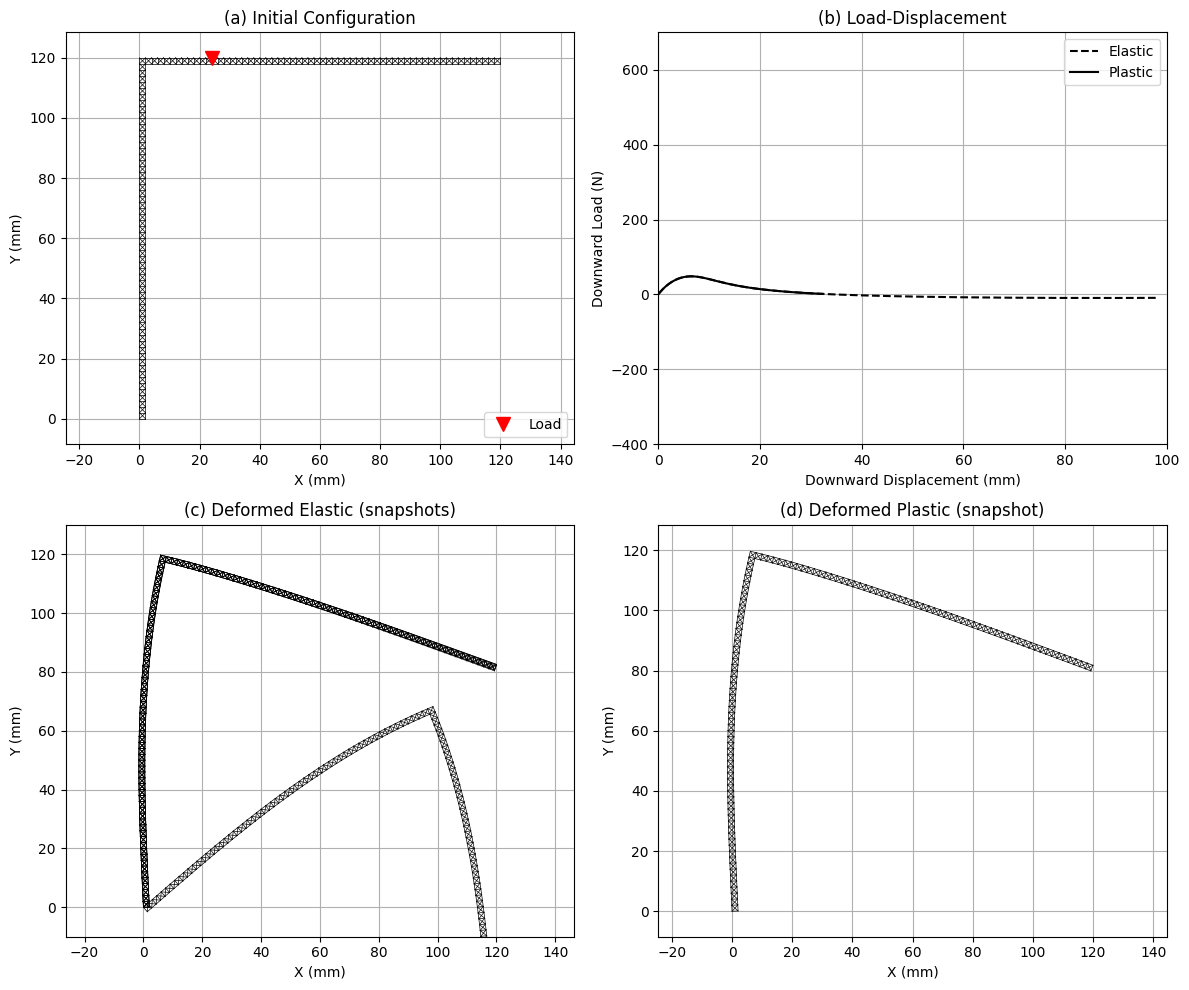
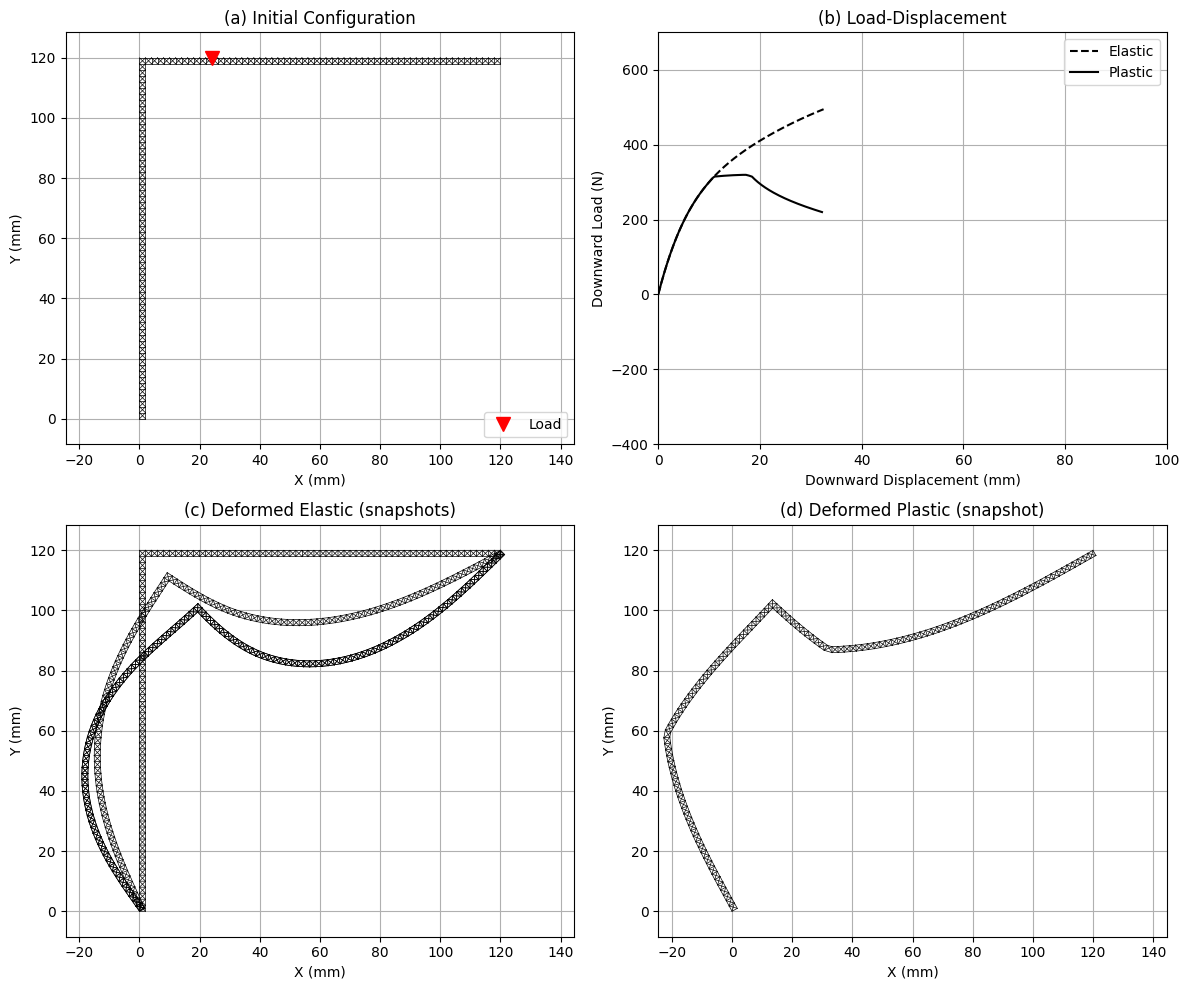
Fix Lee Frame Unclamped boundary to be Pinned-Pinned

diff --git a/lee_frame.py b/lee_frame.py
@@ -133,16 +133,24 @@ def generate_trussed_frame(
     else:
         raise ValueError("support_mode must be 'book' or 'edge'")
 
-    for node_idx in bottom_nodes:
-        analysis.add_constraint(node_idx, 0, 0.0)
-        analysis.add_constraint(node_idx, 1, 0.0)
-
     if clamped:
+        for node_idx in bottom_nodes:
+            analysis.add_constraint(node_idx, 0, 0.0)
+            analysis.add_constraint(node_idx, 1, 0.0)
         for node_idx in right_nodes:
             analysis.add_constraint(node_idx, 0, 0.0)
             analysis.add_constraint(node_idx, 1, 0.0)
     else:
-        if right_support == "x":
+        # Pinned at bottom left (always)
+        for node_idx in bottom_nodes:
+            analysis.add_constraint(node_idx, 0, 0.0)
+            analysis.add_constraint(node_idx, 1, 0.0)
+
+        if right_support == "pinned":
+            for node_idx in right_nodes:
+                analysis.add_constraint(node_idx, 0, 0.0)
+                analysis.add_constraint(node_idx, 1, 0.0)
+        elif right_support == "x":
             for node_idx in right_nodes:
                 analysis.add_constraint(node_idx, 0, 0.0)
         elif right_support == "y":
@@ -922,15 +930,20 @@ def run_and_plot(
 
 if __name__ == "__main__":
     output_dir = Path(__file__).resolve().parent
+    # Unclamped = Pinned-Pinned (Hinged)
     run_and_plot(
         clamped=False,
+        right_support="pinned",
+        support_mode="book",
         input_elastic=None,
         input_plastic=None,
         use_control=False,
         output_path=output_dir / "figure_3_9_trussed_frame.pdf",
     )
+    # Clamped = Fixed-Fixed (Rotational)
     run_and_plot(
         clamped=True,
+        support_mode="edge",
         input_elastic=None,
         input_plastic=None,
         use_control=False,
